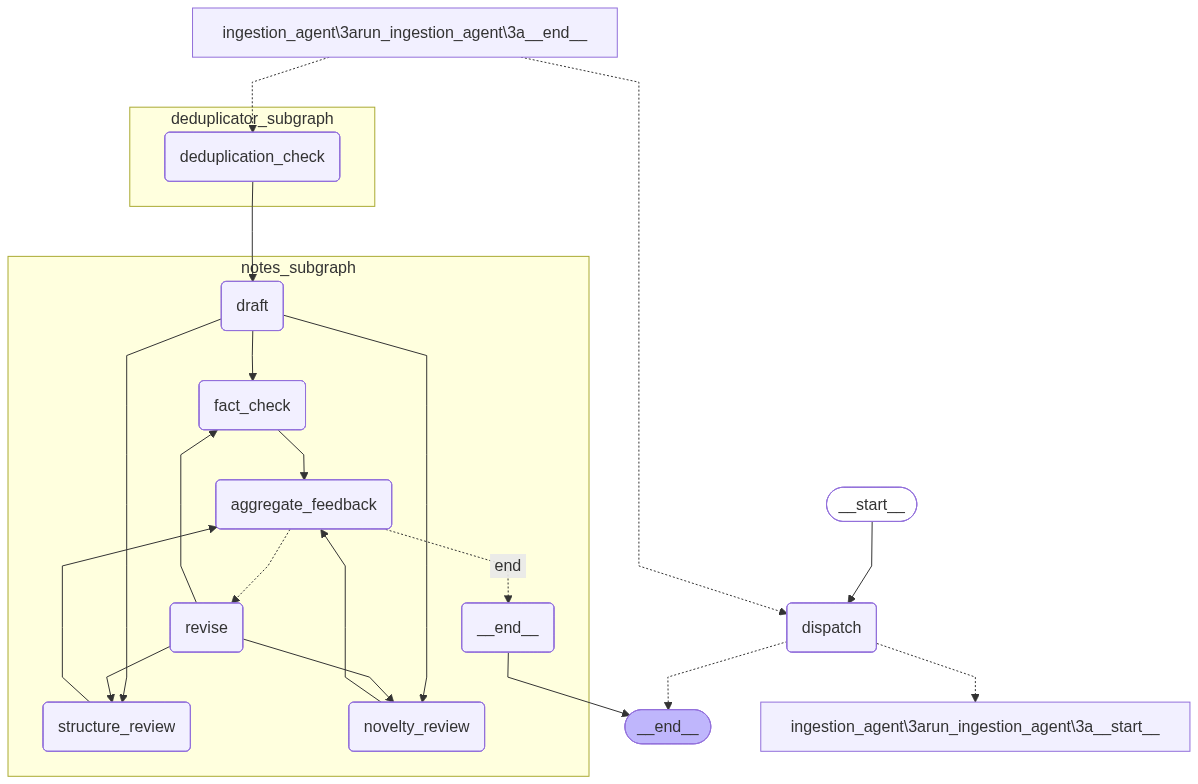
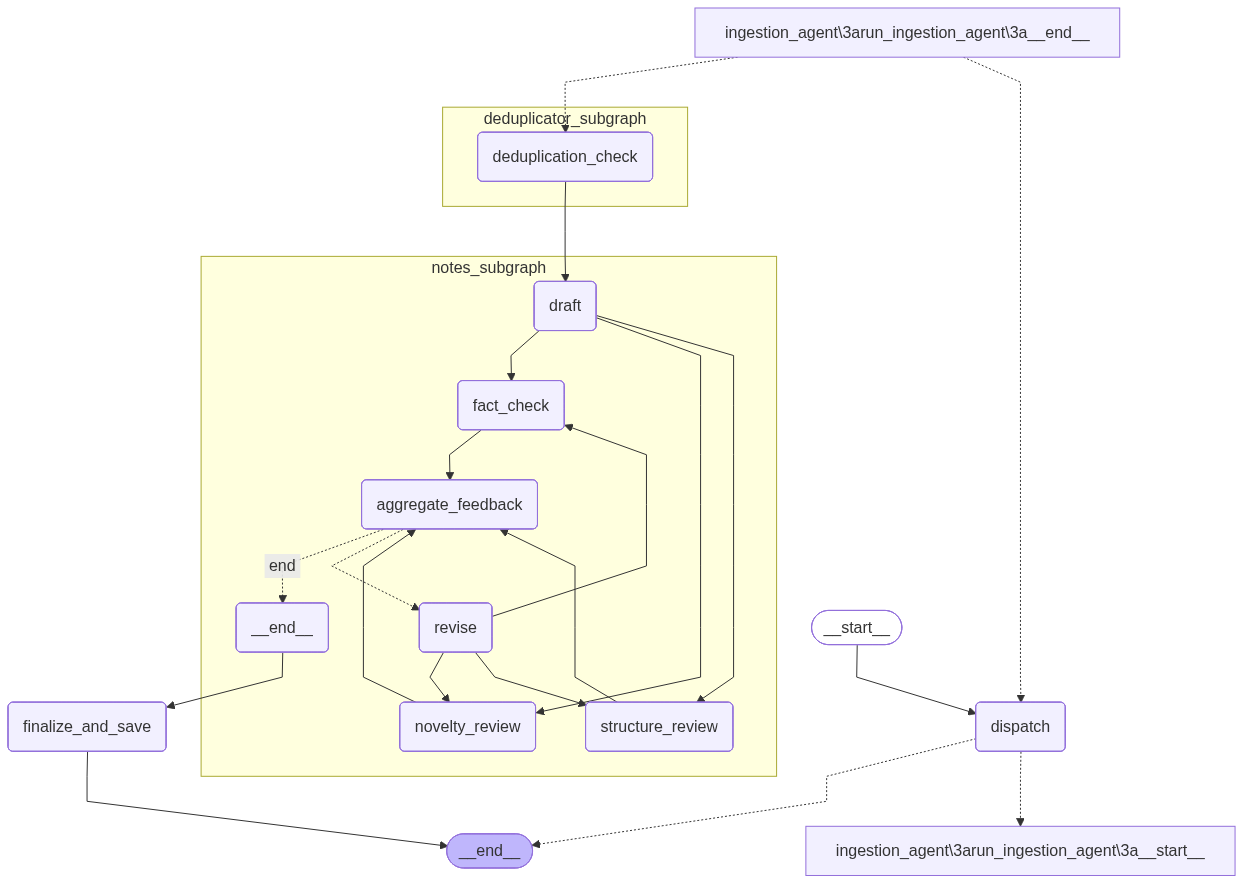
添加翻译功能

diff --git a/src/agent/graph.py b/src/agent/graph.py
@@ -1,6 +1,7 @@
 """
 Defines the main workflow for the Note Agent by wiring together subgraphs.
 """
+import os
 from langgraph.graph import StateGraph, END
 from agent.state import AgentState
 from agent.utils.logging import logger
@@ -10,6 +11,10 @@ from agent.subgraphs.dispatcher import dispatch
 from agent.subgraphs.ingestion_agent import ingestion_agent_graph
 from agent.subgraphs.notes_generator import notes_graph
 from agent.subgraphs.deduplicator import deduplicator_graph
+
+# --- Constants for File Output ---
+OUTPUT_DIR = "output"
+OUTPUT_FILENAME = "generated_note.md"
 
 # --- Main Graph Routing Logic ---
 def route_after_dispatch(state: AgentState):
@@ -36,10 +41,43 @@ def route_after_ingestion(state: AgentState) -> str:
         return "deduplicator_subgraph"
     else:
         logger.warning("Ingestion failed or produced no content. Routing back to dispatcher.")
-        state["intent"] = "waiting" 
+        state["intent"] = "waiting"
         errors = state.get("processing_errors", [])
         state["response_to_user"] = "抱歉，内容处理失败：" + "".join(f"- {e}" for e in errors)
         return "dispatch"
+
+# --- New Node for Saving File and Finalizing Response ---
+def finalize_and_save_node(state: AgentState) -> dict:
+    """
+    Finalizes the process by saving the note and setting the final user response.
+    """
+    logger.info("--- Node: Finalize and Save Note ---")
+    note_content = state.get("final_note")
+
+    if not note_content or not isinstance(note_content, str):
+        logger.warning("No valid note content found in 'final_note' to save. Skipping.")
+        return {"response_to_user": "抱歉，笔记生成失败，没有有效内容可供保存。"}
+
+    try:
+        # Ensure the output directory exists
+        os.makedirs(OUTPUT_DIR, exist_ok=True)
+        output_path = os.path.join(OUTPUT_DIR, OUTPUT_FILENAME)
+
+        with open(output_path, "w", encoding="utf-8") as f:
+            f.write(note_content)
+
+        logger.info(f"Successfully saved note to '{output_path}'")
+        
+        # Set the final response for the user, including the note content
+        final_response = f"笔记已成功生成并保存到 `{output_path}`。\n\n---\n\n{note_content}"
+        return {"response_to_user": final_response}
+
+    except IOError as e:
+        logger.error(f"Failed to write note to file: {e}", exc_info=True)
+        # Handle error and inform the user
+        error_message = f"错误：无法将笔记文件保存到 `{output_path}`。"
+        return {"response_to_user": error_message}
+
 
 # --- Main Workflow Construction ---
 workflow = StateGraph(AgentState)
@@ -49,6 +87,7 @@ workflow.add_node("dispatch", dispatch)
 workflow.add_node("ingestion_agent", ingestion_agent_graph)
 workflow.add_node("deduplicator_subgraph", deduplicator_graph)
 workflow.add_node("notes_subgraph", notes_graph)
+workflow.add_node("finalize_and_save", finalize_and_save_node) # Add the new save node
 
 # 2. Set entry point
 workflow.set_entry_point("dispatch")
@@ -76,7 +115,9 @@ workflow.add_conditional_edges(
 # The notes generator will handle whether the content is a duplicate.
 workflow.add_edge("deduplicator_subgraph", "notes_subgraph")
 
-workflow.add_edge("notes_subgraph", END)
+# After generating the note, save it and finalize the response, then end.
+workflow.add_edge("notes_subgraph", "finalize_and_save")
+workflow.add_edge("finalize_and_save", END)
 
 # 4. Compile the workflow
 graph = workflow.compile()
